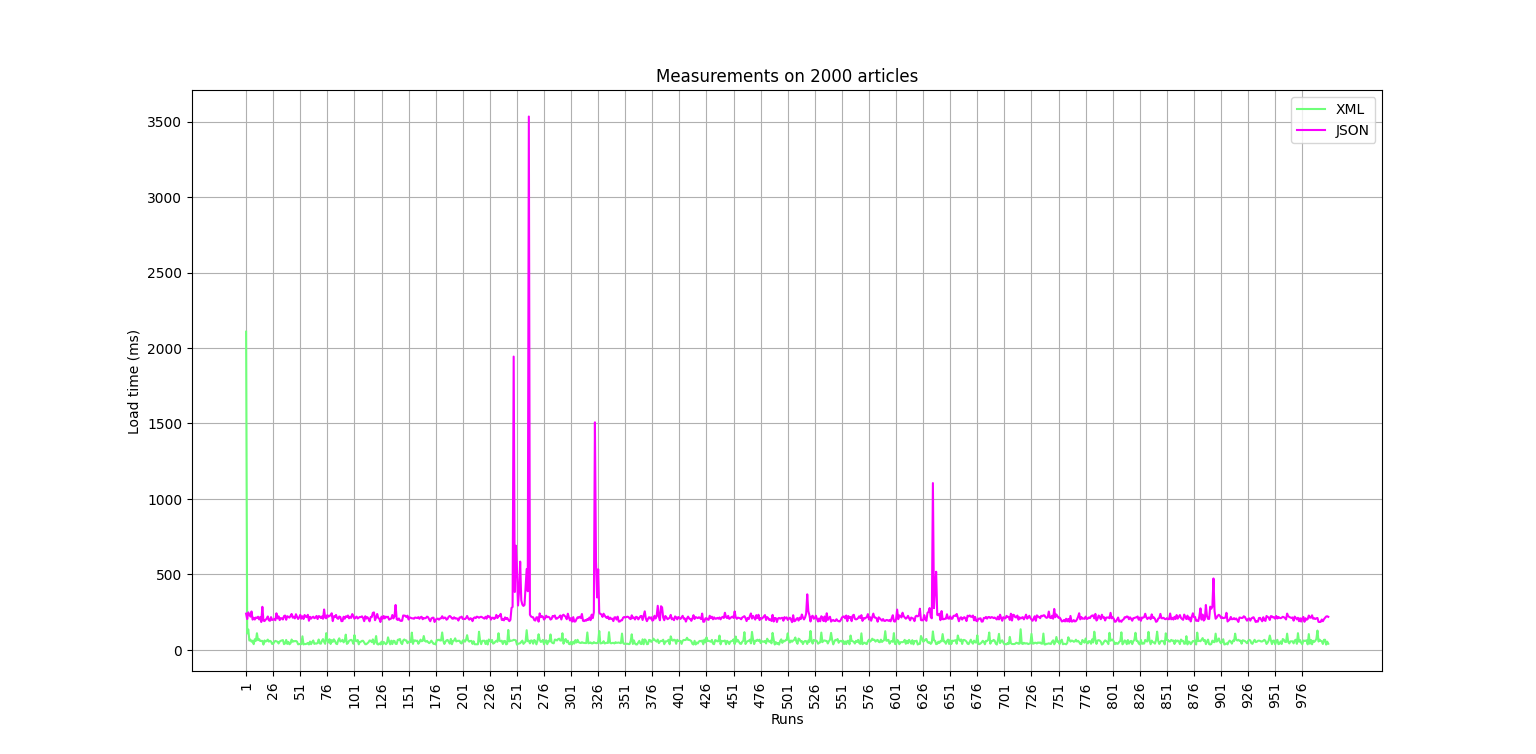
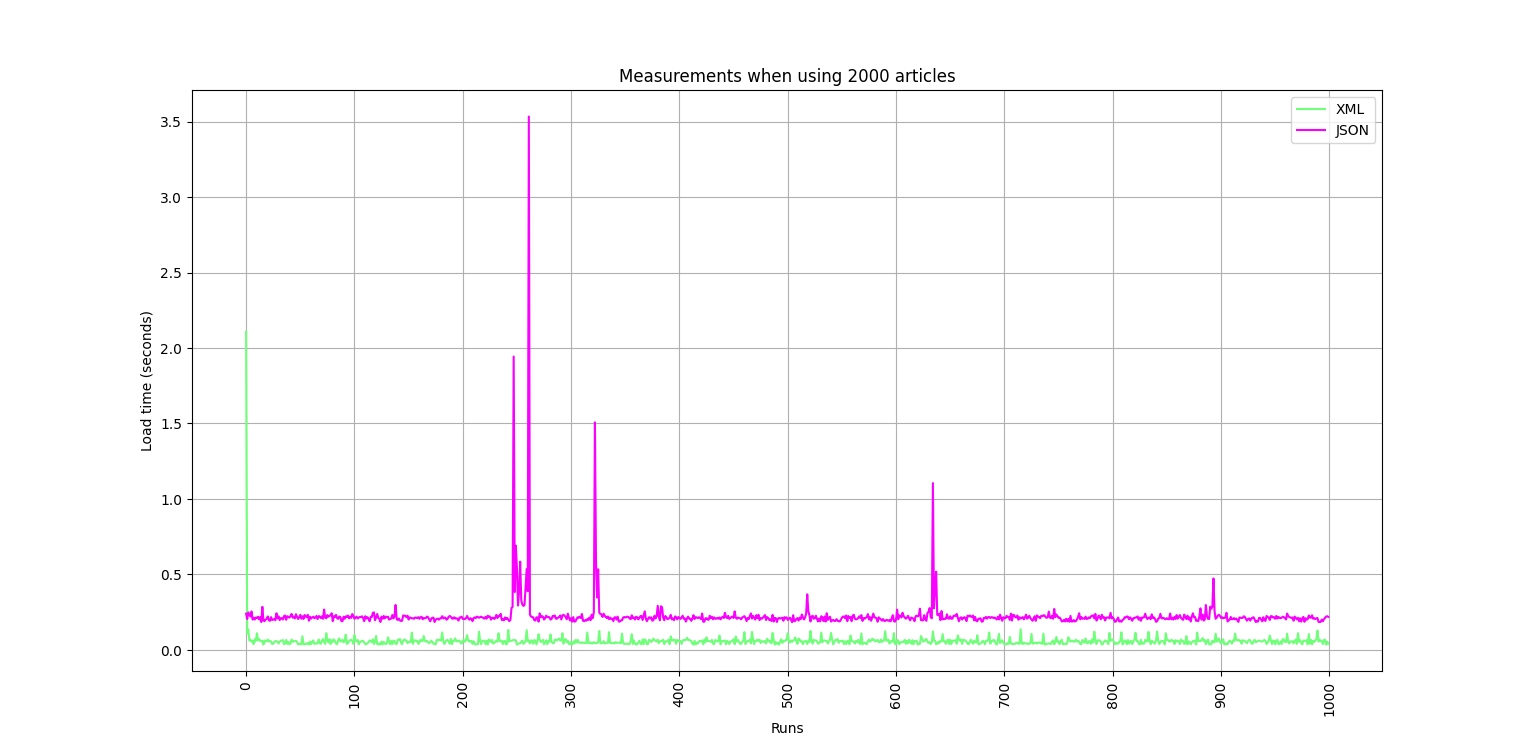
Corrected y-axis and title

diff --git a/PythonScripts/linediagram2000.py b/PythonScripts/linediagram2000.py
@@ -1,10 +1,5 @@
 import matplotlib.pyplot as plt
 import json
-from matplotlib.ticker import FuncFormatter
-
-# Define a function to convert milliseconds to seconds
-def milliseconds_to_seconds(ms, pos):
-    return '{:.0f}'.format(ms / 1000)  # Convert milliseconds to seconds and round to nearest integer
 
 # Define the data files
 files = ["data_2000xml.json", "data_2000json.json"]
@@ -15,34 +10,17 @@ fig, ax = plt.subplots()
 fileColors = ["#6fff79", "#fA00ff"]
 fileLabels = ["XML", "JSON"]
 
-# Initialize variables to store minimum and maximum y-values
-min_y = float('inf')
-max_y = float('-inf')
-
 # Loop through each file and plot data for all two datafiles on the same plot
 for i, file in enumerate(files):
     dictionary = json.load(open(file, 'r'))
     xAxis = [key for key, value in dictionary.items()]
-    yAxis = [value for key, value in dictionary.items()]
-
-    # Update min_y and max_y
-    min_y = min(min_y, min(yAxis))
-    max_y = max(max_y, max(yAxis))
-
+    # Convert milliseconds to seconds for y-axis values
+    yAxis = [value / 1000 for key, value in dictionary.items()]
     ax.plot(xAxis, yAxis, color=fileColors[i], label=fileLabels[i])
 
-ax.set_xlabel('Run')
-ax.set_ylabel('Load time (seconds)')  # Update y-axis label
+ax.set_xlabel('Runs')
+ax.set_ylabel('Load time (seconds)')  # Update the label to indicate milliseconds
 ax.set_title('Measurements when using 2000 articles')
-
-# Set the y-axis limits to show a buffer above and below the actual data
-buffer = 0.1  # adjust as needed
-ax.set_ylim(min_y - buffer * (max_y - min_y), max_y + buffer * (max_y - min_y))
-
-# Format y-axis ticks to display values in milliseconds
-formatter = FuncFormatter(milliseconds_to_seconds)
-ax.yaxis.set_major_formatter(formatter)
-
 n = 100
 plt.xticks(range(0, 1001, n), range(0, 1001, n), rotation=90)
 ax.grid(True)
